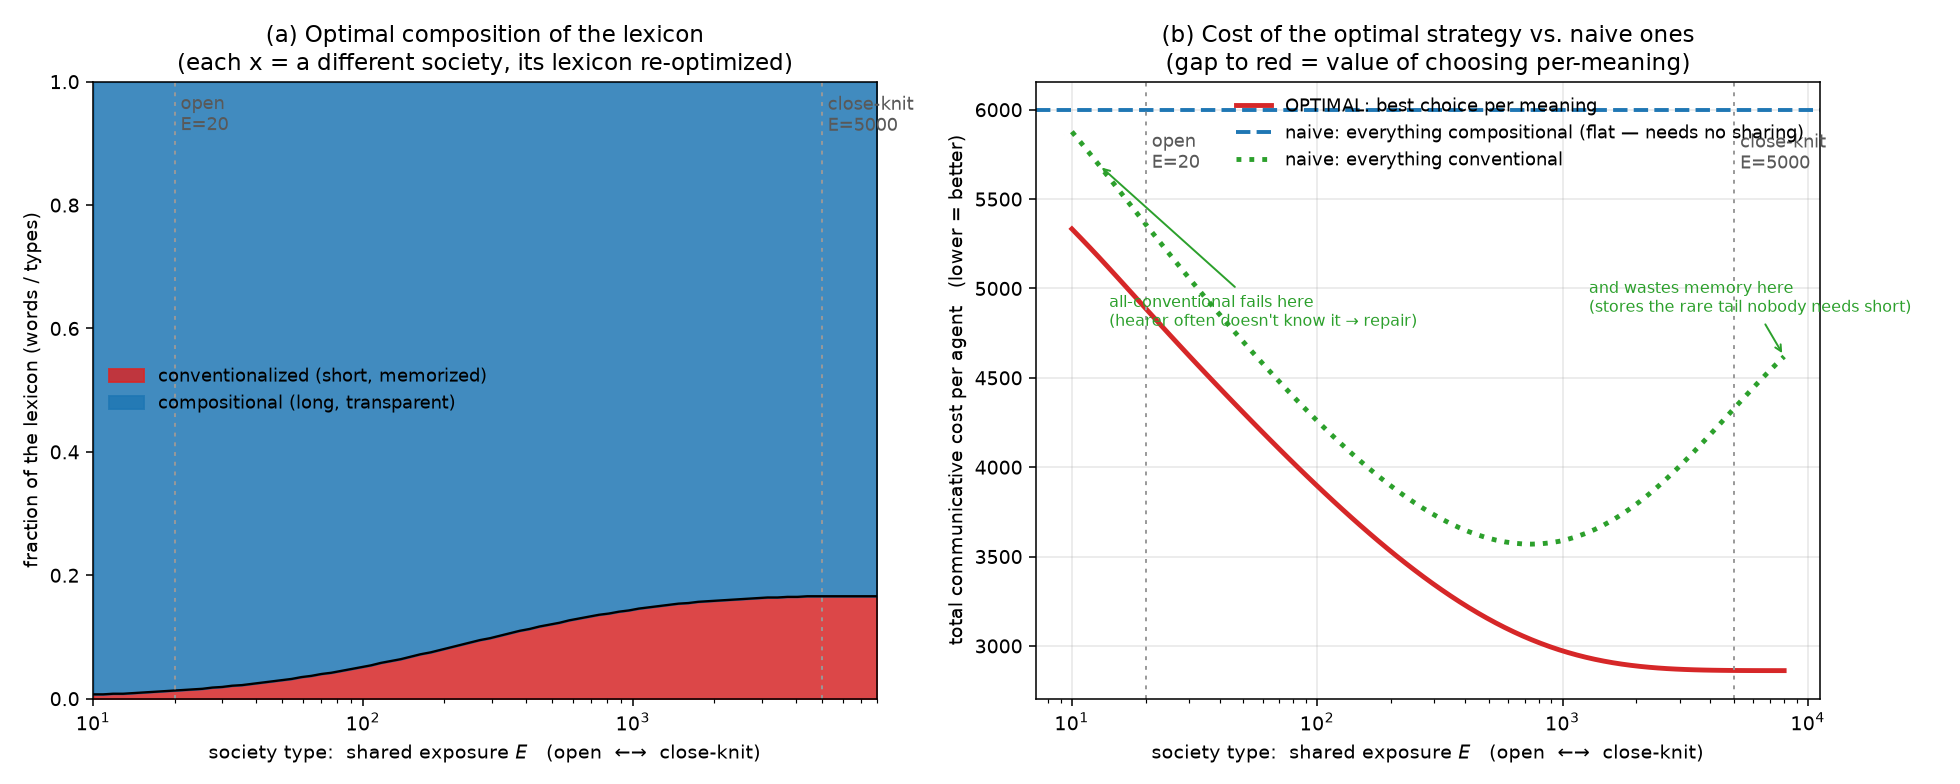
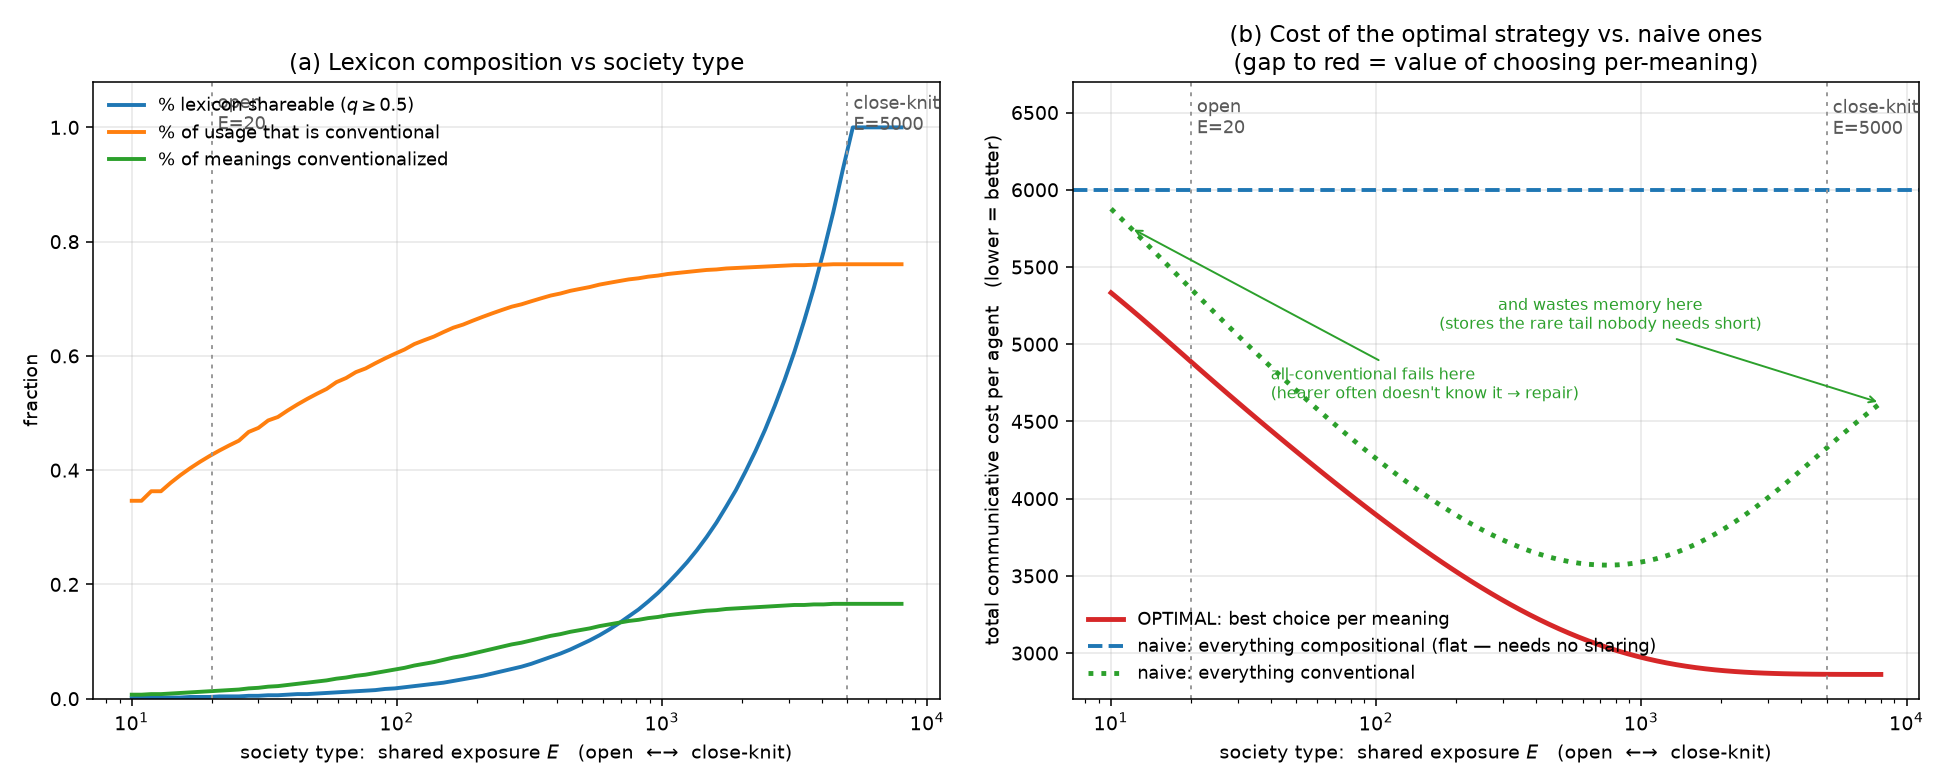
Improve exposure_sweep figure readability
Revert panel (a) to the three-curve lexicon-composition summary and fix
panel (b) text collisions with the flat compositional baseline by moving
the legend, adding y-axis headroom, and repositioning archetype labels.

diff --git a/run_experiments.py b/run_experiments.py
@@ -69,12 +69,12 @@ def fig_society_profiles(params: ModelParams) -> None:
     print("wrote", out)
 
 
-def _mark_archetypes(ax, ymax: float) -> None:
+def _mark_archetypes(ax, y: float, va: str = "top") -> None:
     """Drop labelled guide-lines for the open and close-knit archetypes."""
     for E, name in [(20.0, "open"), (5000.0, "close-knit")]:
         ax.axvline(E, color="0.6", lw=1, ls=(0, (2, 3)))
-        ax.text(E, ymax, f" {name}\n E={E:g}", color="0.35", fontsize=9,
-                va="top", ha="left")
+        ax.text(E, y, f" {name}\n E={E:g}", color="0.35", fontsize=9,
+                va=va, ha="left")
 
 
 def fig_exposure_sweep(params: ModelParams) -> None:
@@ -88,25 +88,20 @@ def fig_exposure_sweep(params: ModelParams) -> None:
     all_comp = results[0].total_cost_all_comp  # constant baseline
     all_conv = [r.total_cost_all_conv for r in results]
 
-    frac_types = np.asarray(frac_types)
-
     fig, (ax0, ax1) = plt.subplots(1, 2, figsize=(14, 5.6))
 
-    # --- (a) optimal composition of the lexicon: conventional vs compositional ---
-    ax0.fill_between(E_grid, 0, frac_types, color="C3", alpha=0.85,
-                     label="conventionalized (short, memorized)")
-    ax0.fill_between(E_grid, frac_types, 1.0, color="C0", alpha=0.85,
-                     label="compositional (long, transparent)")
-    ax0.plot(E_grid, frac_types, color="k", lw=1.2)
+    # --- (a) lexicon composition summaries vs society type ---
+    ax0.plot(E_grid, shared, lw=2, label="% lexicon shareable ($q \\geq 0.5$)")
+    ax0.plot(E_grid, frac_tokens, lw=2, label="% of usage that is conventional")
+    ax0.plot(E_grid, frac_types, lw=2, label="% of meanings conventionalized")
     ax0.set_xscale("log")
-    ax0.set_ylim(0, 1.0)
-    ax0.set_xlim(E_grid[0], E_grid[-1])
+    ax0.set_ylim(0, 1.08)
     ax0.set_xlabel("society type:  shared exposure $E$   (open  ←→  close-knit)")
-    ax0.set_ylabel("fraction of the lexicon (words / types)")
-    ax0.set_title("(a) Optimal composition of the lexicon\n"
-                  "(each x = a different society, its lexicon re-optimized)")
-    ax0.legend(frameon=False, loc="center left", fontsize=9)
-    _mark_archetypes(ax0, 0.98)
+    ax0.set_ylabel("fraction")
+    ax0.set_title("(a) Lexicon composition vs society type")
+    ax0.legend(frameon=False, loc="upper left", fontsize=9)
+    ax0.grid(alpha=0.3)
+    _mark_archetypes(ax0, 1.06)
 
     # --- (b) cost of optimal vs the two pure strategies ---
     ax1.plot(E_grid, total, lw=2.5, color="C3", label="OPTIMAL: best choice per meaning")
@@ -115,24 +110,24 @@ def fig_exposure_sweep(params: ModelParams) -> None:
     ax1.plot(E_grid, all_conv, ls=":", lw=2.5, color="C2",
              label="naive: everything conventional")
     ax1.set_xscale("log")
+    ax1.set_ylim(top=6700)  # headroom so archetype labels clear the dashed line
     ax1.set_xlabel("society type:  shared exposure $E$   (open  ←→  close-knit)")
     ax1.set_ylabel("total communicative cost per agent   (lower = better)")
     ax1.set_title("(b) Cost of the optimal strategy vs. naive ones\n"
                   "(gap to red = value of choosing per-meaning)")
-    ax1.legend(frameon=False, loc="upper right", fontsize=9)
+    ax1.legend(frameon=False, loc="lower left", fontsize=9)
     ax1.grid(alpha=0.3)
 
-    # annotate why 'all conventional' is U-shaped
-    imin = int(np.argmin(all_conv))
+    # annotate why 'all conventional' is U-shaped (kept clear of the flat line)
     ax1.annotate("all-conventional fails here\n(hearer often doesn't know it → repair)",
-                 xy=(E_grid[3], all_conv[3]), xytext=(E_grid[3] * 1.1, all_conv[3] - 900),
+                 xy=(E_grid[2], all_conv[2]), xytext=(40, 4650),
                  fontsize=8, color="C2",
                  arrowprops=dict(arrowstyle="->", color="C2", lw=1))
     ax1.annotate("and wastes memory here\n(stores the rare tail nobody needs short)",
-                 xy=(E_grid[-1], all_conv[-1]), xytext=(E_grid[-1] * 0.16, all_conv[-1] + 250),
-                 fontsize=8, color="C2",
+                 xy=(E_grid[-1], all_conv[-1]), xytext=(700, 5100),
+                 fontsize=8, color="C2", ha="center",
                  arrowprops=dict(arrowstyle="->", color="C2", lw=1))
-    _mark_archetypes(ax1, max(all_conv) * 1.0)
+    _mark_archetypes(ax1, 6600)
 
     fig.tight_layout()
     out = os.path.join(FIG_DIR, "exposure_sweep.png")
